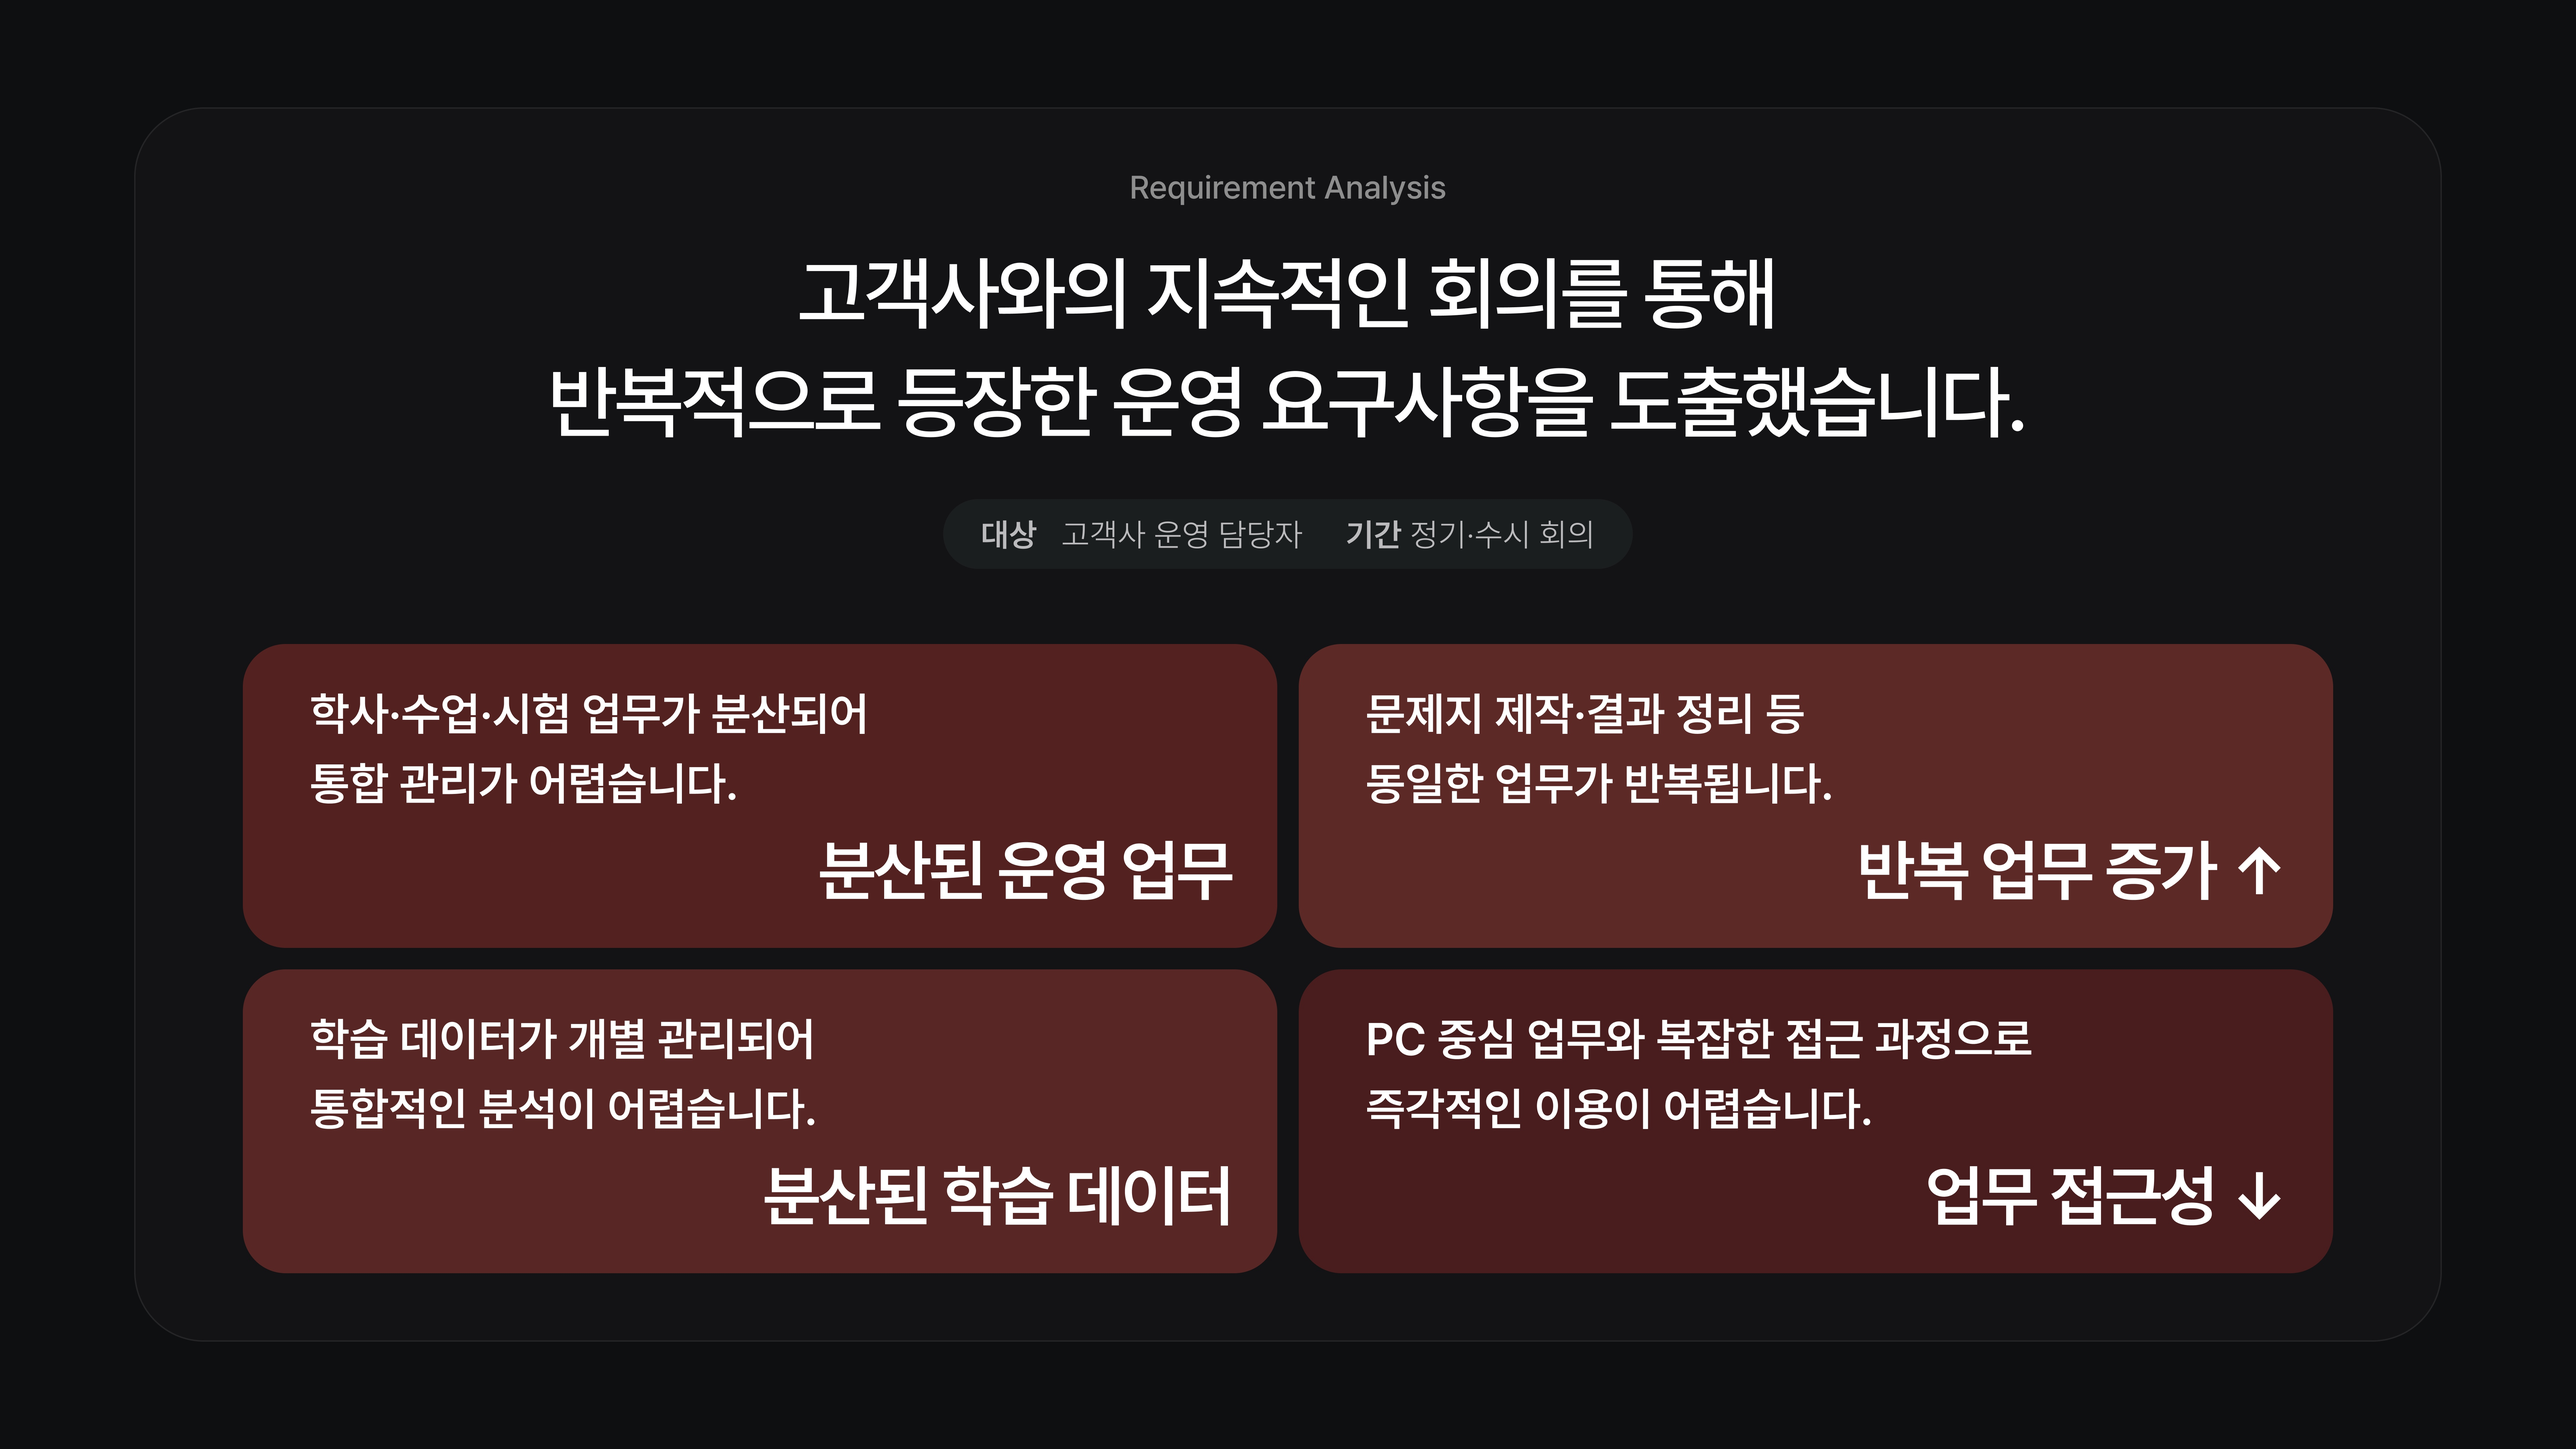
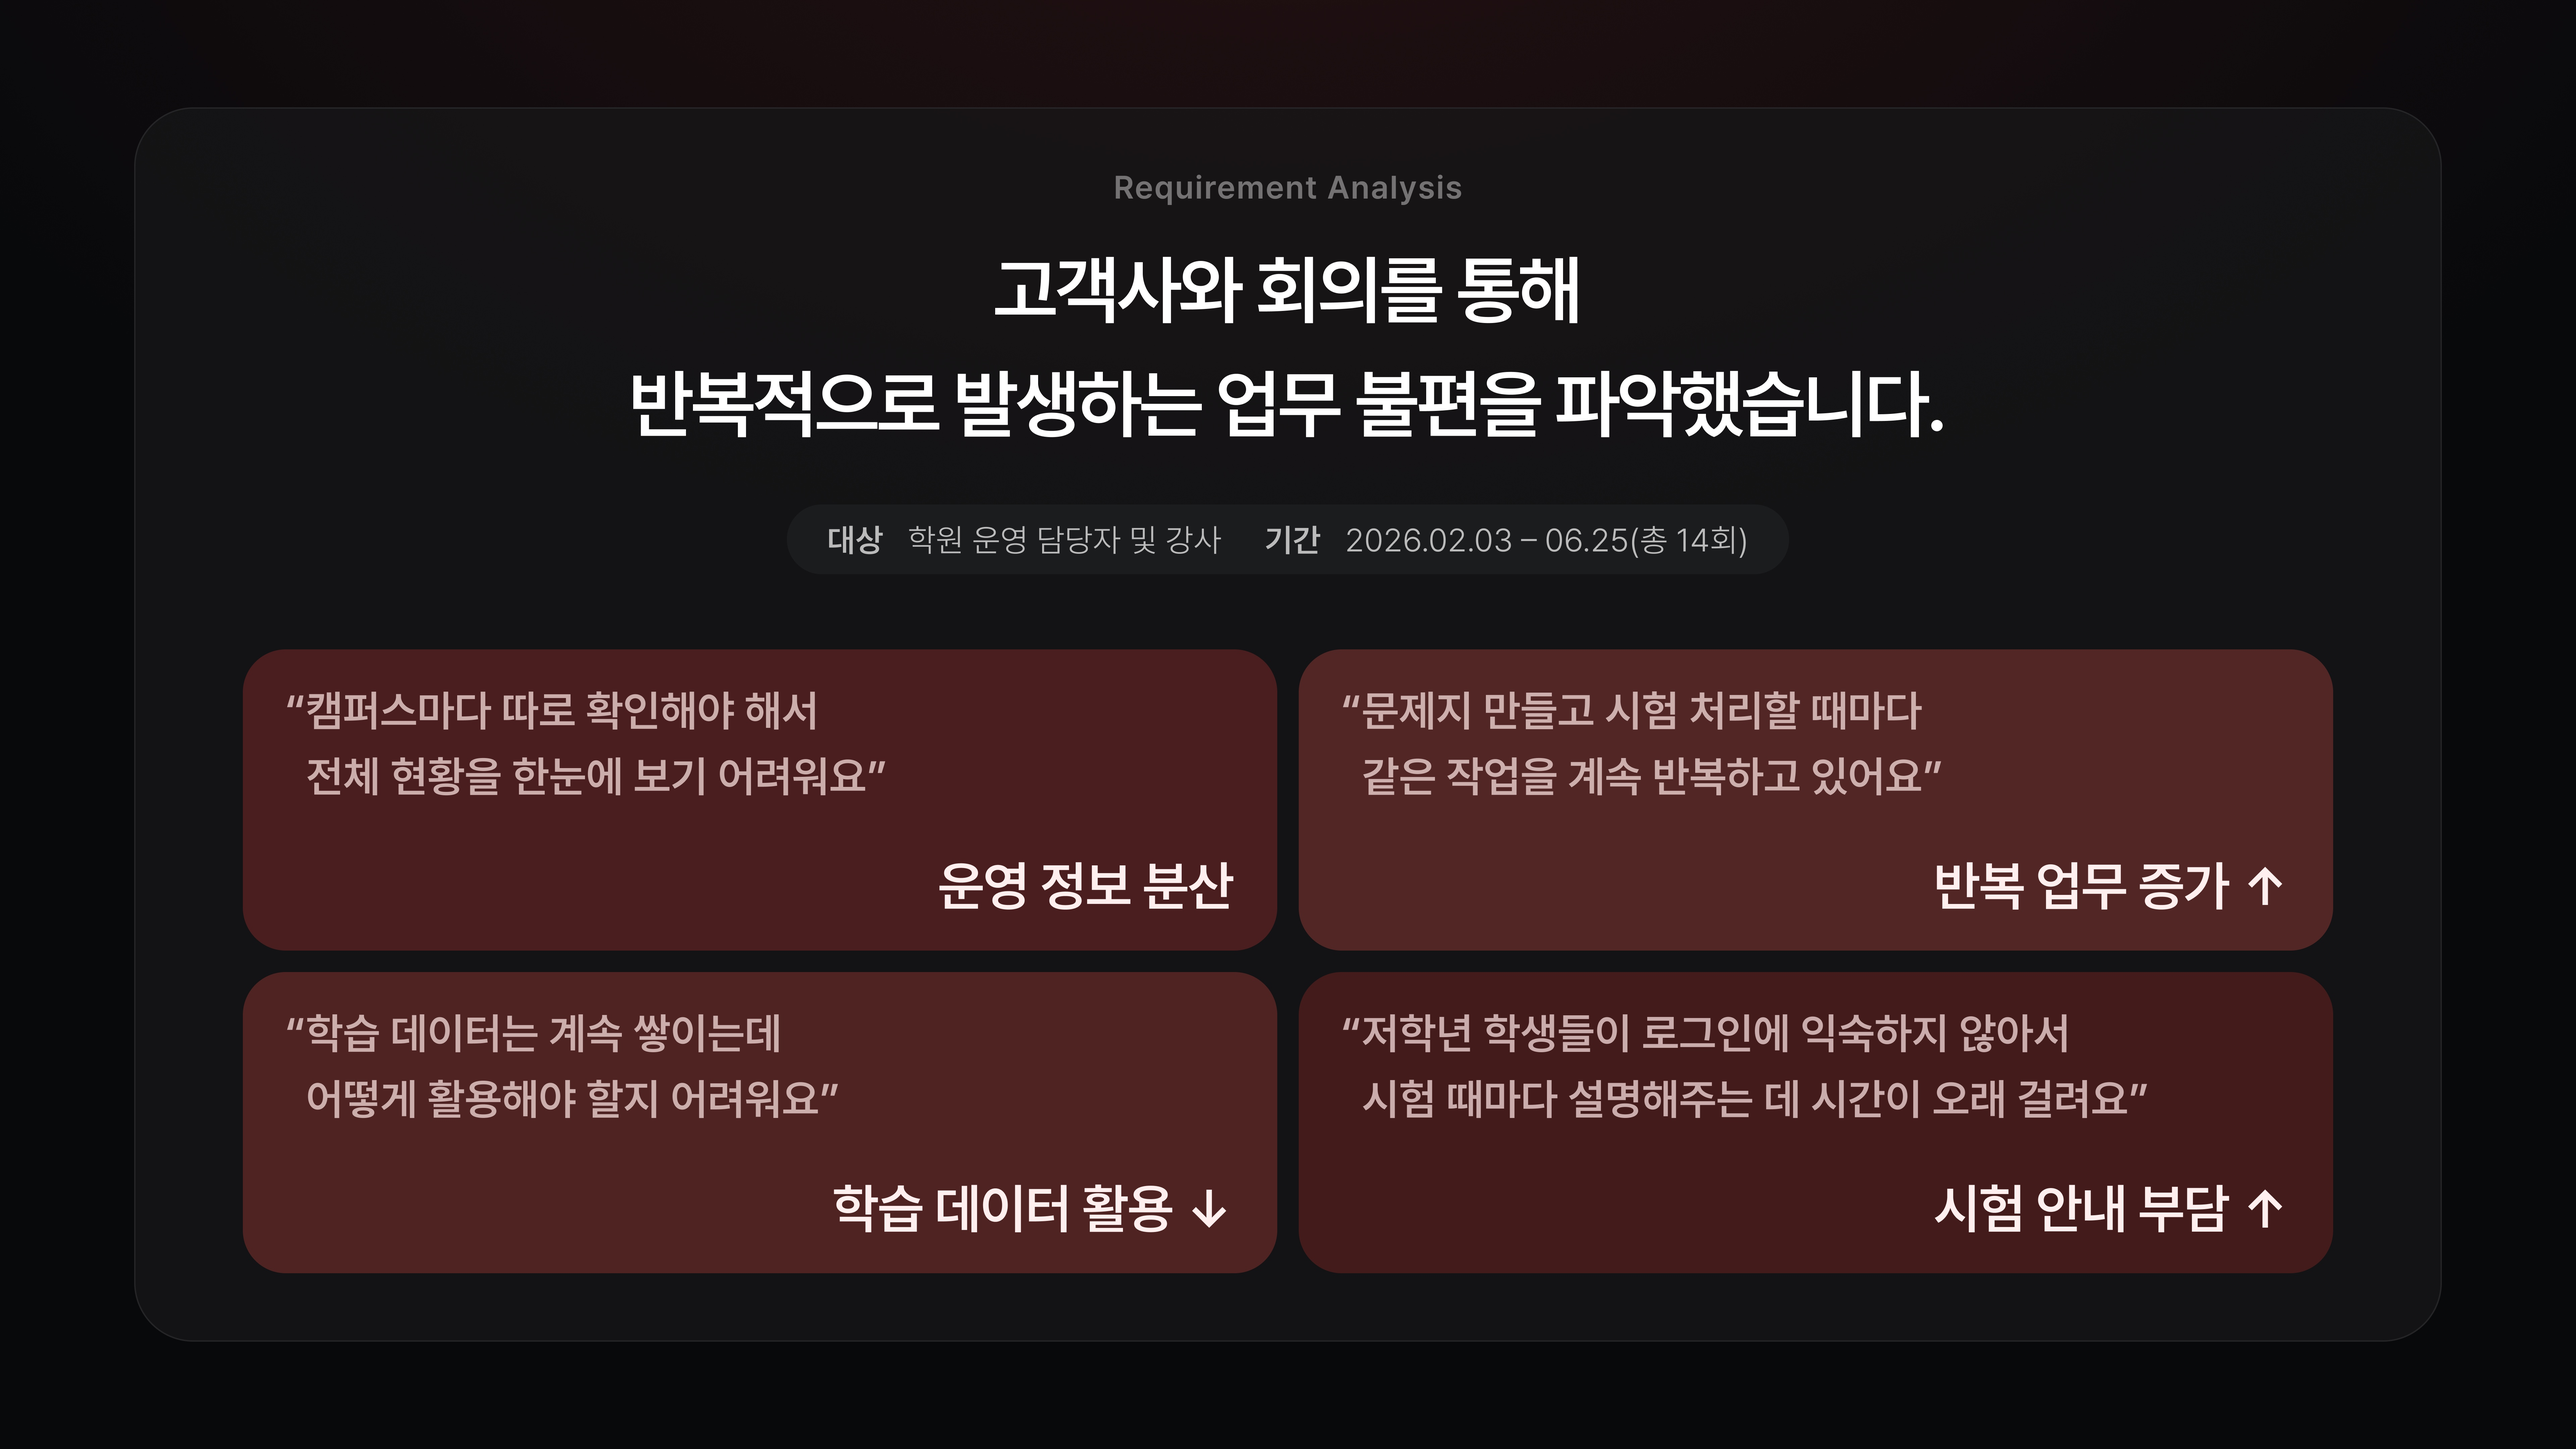
학원 ERP 슬라이드 01~05 교체 + 이미지 캐시 버스팅
- assets/slides/01/01~05 를 새 이미지로 갱신 (4x JPEG q95, 7680x4320)
  넣어주신 PNG 원본은 _originals/01/ 로 이동 (git 제외)
  새 PNG 대비 변환본 평균 차이 0.53~0.84% (동일 내용)
- 슬라이드·커버·이력서·Index 이미지 URL 에 ?v= 버전 쿼리 추가
  경로 생성과 버전 부착을 분리해 확장자 추출이 쿼리에 오염되지 않게 함
- CSS/JS 버전 ?v=20260922e

diff --git a/index.html b/index.html
@@ -26,7 +26,7 @@
 <link rel="preconnect" href="https://fonts.gstatic.com" crossorigin>
 <link href="https://fonts.googleapis.com/css2?family=Rethink+Sans:wght@500;600;700&family=Figtree:wght@400&family=Playfair+Display:wght@400;500&display=swap" rel="stylesheet">
 <link rel="stylesheet" href="https://cdn.jsdelivr.net/gh/orioncactus/pretendard@v1.3.9/dist/web/variable/pretendardvariable-dynamic-subset.min.css">
-<link rel="stylesheet" href="assets/css/styles.css?v=20260922d">
+<link rel="stylesheet" href="assets/css/styles.css?v=20260922e">
 </head>
 <body>
 
@@ -86,7 +86,7 @@
     <!-- ---------- HERO — Figma 원본 전체를 PNG 한 장으로 표시 ---------- -->
     <section class="hero full-bleed" id="home" aria-label="표지">
       <img class="hero__cover"
-           src="assets/img/main-cover.png"
+           src="assets/img/main-cover.png?v=20260922e"
            alt="2026 Portfolio — Product Design"
            fetchpriority="high"
            decoding="async">
@@ -94,13 +94,13 @@
 
     <!-- ---------- RESUME / 이력서 ---------- -->
     <section class="resume full-bleed" id="profile">
-      <img src="assets/img/resume.png" alt="신동주 이력서">
+      <img src="assets/img/resume.png?v=20260922e" alt="신동주 이력서">
     </section>
 
     <!-- ---------- INDEX — 완성 PNG 1장 + 투명 클릭 영역 ---------- -->
     <section class="index full-bleed" id="index" aria-label="프로젝트 목차">
       <div class="index__frame">
-        <img class="index__cover" src="assets/img/index.png"
+        <img class="index__cover" src="assets/img/index.png?v=20260922e"
              alt="Index — 01 학원 ERP 서비스 고도화, 02 시니어 AI 케어 서비스 기획, 03 숏폼 OTT 서비스 런칭, 04 케이크 주문 서비스 구축"
              width="7680" height="4320" decoding="async">
         <a class="index__hit index__hit--01" href="#project-01" aria-label="학원 ERP 서비스 고도화 프로젝트로 이동"></a>
@@ -161,6 +161,6 @@
   </div>
 </div>
 
-<script src="assets/js/main.js?v=20260922d"></script>
+<script src="assets/js/main.js?v=20260922e"></script>
 </body>
 </html>

diff --git a/assets/js/main.js b/assets/js/main.js
@@ -63,7 +63,13 @@
   var ROOT_MARGIN = '150% 0px 250% 0px';     // ~2.5 screens of runway downward
 
   function pad(n) { return n < 10 ? '0' + n : String(n); }
+  /* 배포마다 값을 바꾸면 교체된 슬라이드가 브라우저 캐시를 우회해 즉시 반영된다.
+     (CSS/JS 의 ?v= 와 같은 역할)
+     경로 자체에는 붙이지 않는다 — 확장자 추출이나 존재 확인이 쿼리에
+     오염되면 안 되므로, <img src> 에 실을 때만 versioned() 로 감싼다. */
+  var ASSET_VERSION = '20260922e';
   function slidePath(key, n, ext) { return 'assets/slides/' + key + '/' + pad(n) + '.' + ext; }
+  function versioned(src) { return src + '?v=' + ASSET_VERSION; }
 
   function exists(url) {
     return fetch(url, { method: 'HEAD' })
@@ -215,7 +221,7 @@
          only pull images in EARLIER than the native threshold. */
       img.setAttribute('loading', 'lazy');
     }
-    img.src = src;
+    img.src = versioned(src);
 
     fig.appendChild(img);
     return fig;
